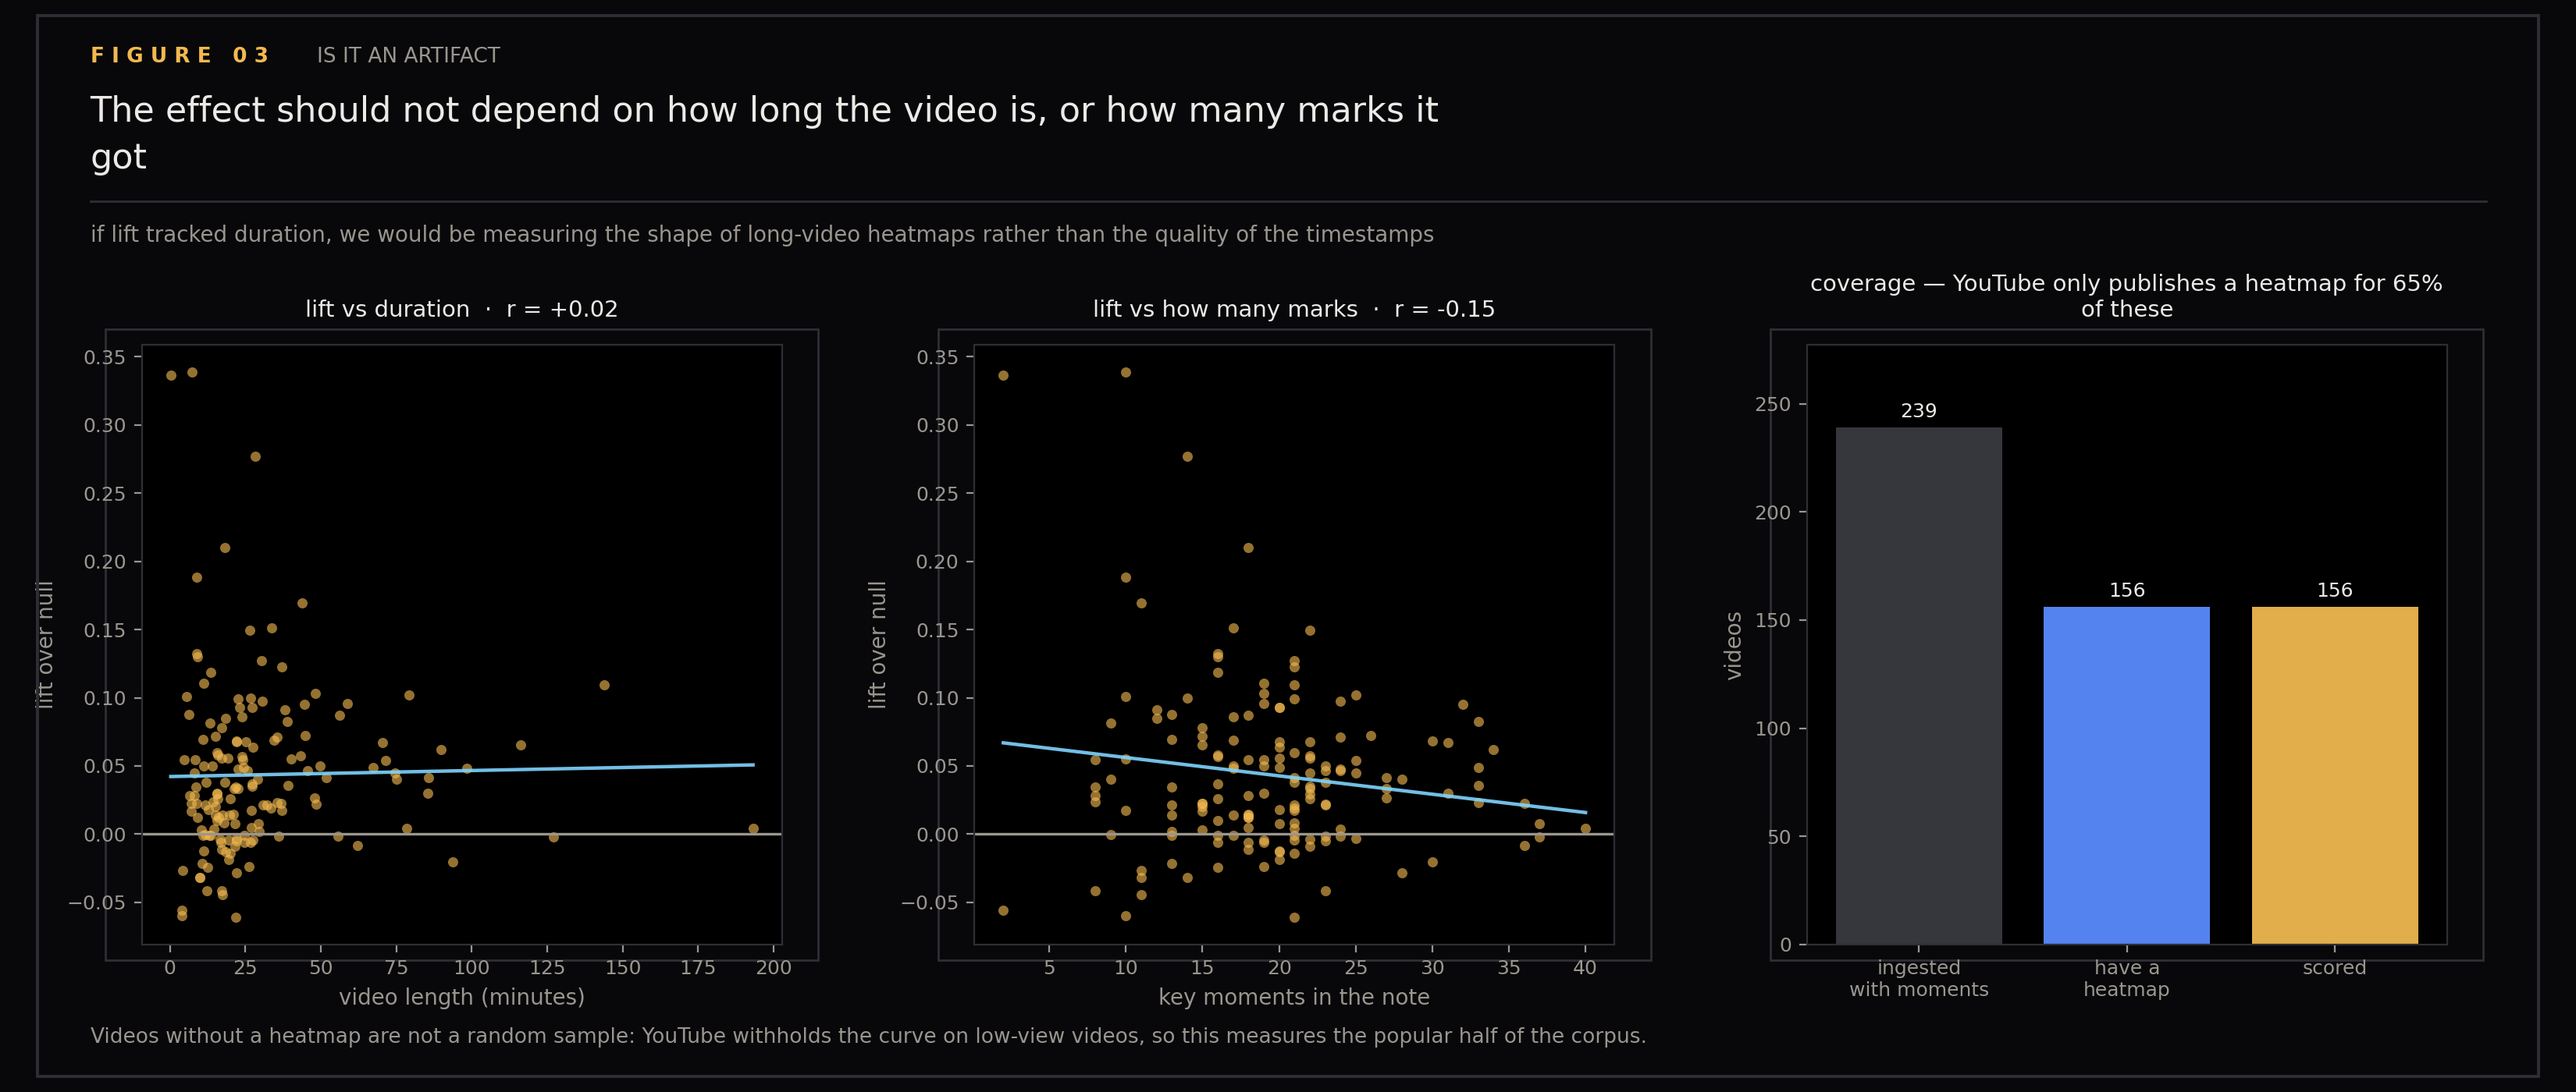
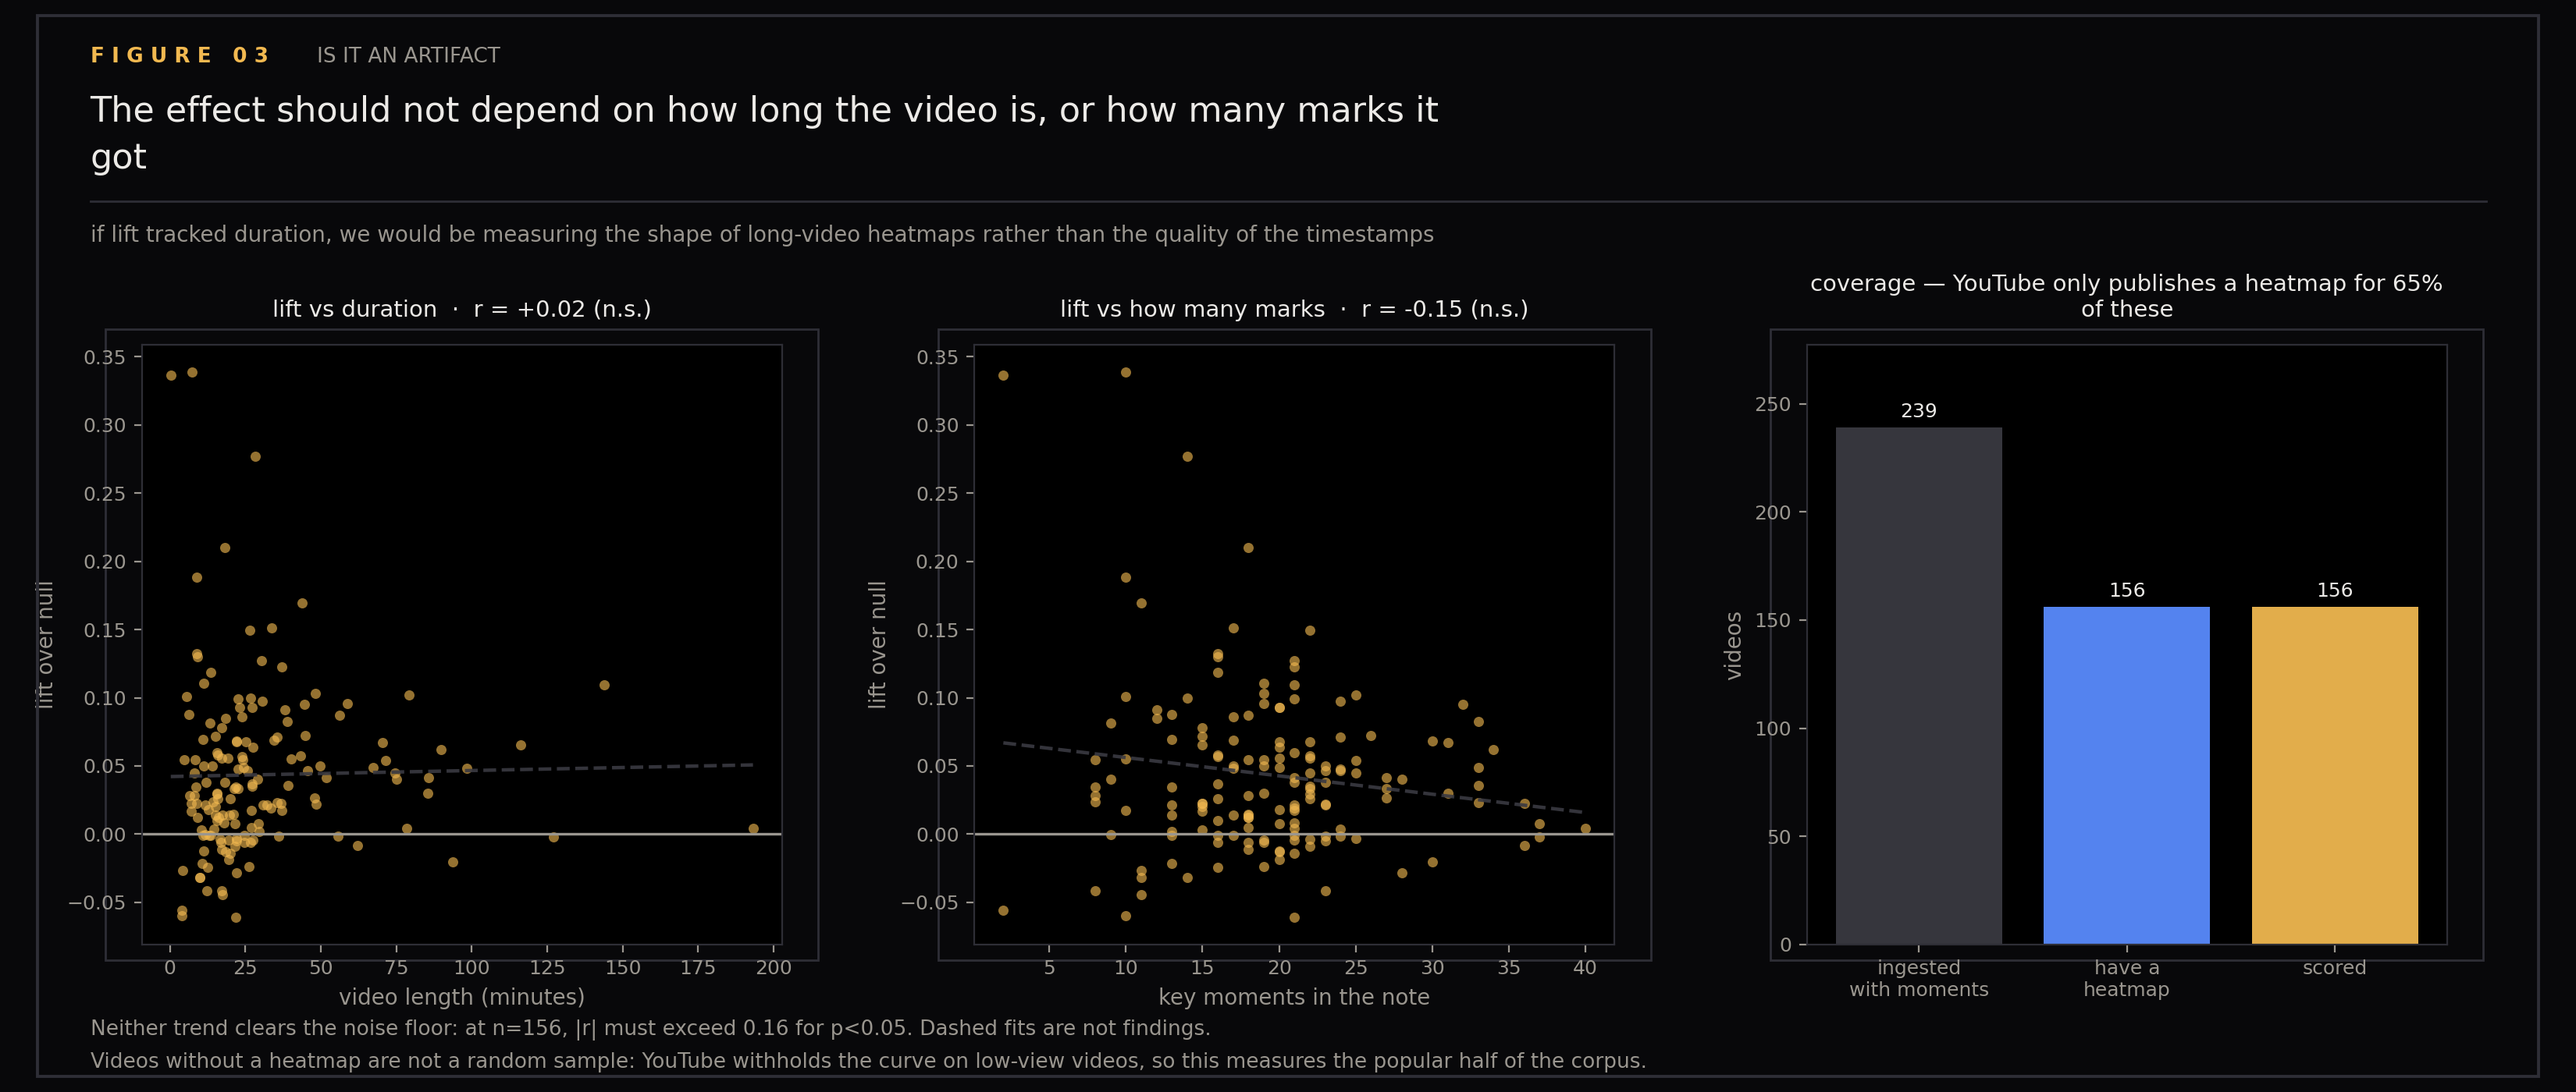
experiment(144): retract the density finding — it does not clear the noise floor
The previous commit reported "lift falls as mark count rises, r = -0.15" as the
actionable result and recommended capping key_moments on the strength of it.
Checked properly, it does not hold:

    r = -0.1496,  p = 0.060
    critical |r| at n=156 is 0.156     -> just under the bar
    variance explained by n_moments    -> 2.2%
    R^2 of n + duration + peakiness    -> 0.040

Duration quartiles are non-monotone (+0.047, +0.022, +0.054, +0.051), and the
sign flips under the obvious reparameterization: marks *per minute* correlates
+0.14, the opposite direction. If dilution were the mechanism, density is
precisely the variable that should have carried it, and it carries the reverse.

What made this worth catching is that it had everything a real finding has — a
plausible mechanism (forty marks on a 78-minute video approaches uniform
coverage, and uniform coverage cannot beat a uniform null by construction), a
worked example in figure 02, and a number that looked like the ones around it.
None of that is evidence. The arithmetic is.

Figure 03 now draws non-significant fits dashed and grey, labels them n.s., and
states the noise floor on the panel, so the picture cannot imply what the
statistics decline to support. Figure 01 gains 95% confidence intervals.

The headline is unaffected and gets stronger for being stated with intervals:

    key moments  +0.0435  95% CI [+0.0339, +0.0532]   119/156 wins, sign z=6.6
    chapters     +0.1207  95% CI [+0.1018, +0.1396]
[…]

diff --git a/scripts/plot_heatmap_key_moments.py b/scripts/plot_heatmap_key_moments.py
@@ -154,11 +154,14 @@ def fig01(res: dict) -> None:
     ax.set_xlabel("lift over that video's own null")
     ax.set_ylabel("videos")
     ax.legend(loc="upper right", fontsize=TICK_SIZE, framealpha=0.0, labelcolor=TEXT)
+    se = lift.std(ddof=1) / np.sqrt(len(lift))
+    se_ch = ch_lift.std(ddof=1) / np.sqrt(len(ch_lift))
     panel_title(
         ax,
-        f"key moments {lift.mean():+.3f} (sd {lift.std(ddof=1):.3f})  ·  "
-        f"chapters {ch_lift.mean():+.3f}",
-        width=52,
+        f"key moments {lift.mean():+.3f} [{lift.mean() - 1.96 * se:+.3f}, "
+        f"{lift.mean() + 1.96 * se:+.3f}]  ·  chapters {ch_lift.mean():+.3f} "
+        f"[{ch_lift.mean() - 1.96 * se_ch:+.3f}, {ch_lift.mean() + 1.96 * se_ch:+.3f}]",
+        width=58,
     )
 
     fig.text(
@@ -265,6 +268,11 @@ def fig03(res: dict) -> None:
         1, 3, left=0.055, right=1 - MARGIN - 0.015, top=top, bottom=0.135, wspace=0.30
     )
 
+    # |r| this size is inside the noise floor at this n; state the threshold on
+    # the panel rather than letting a drawn trend line imply a finding.
+    n = len(lift)
+    crit = 1.96 / np.sqrt(n - 2 + 1.96**2)
+
     for ax_i, (x, xlabel, title) in enumerate(
         [
             (dur, "video length (minutes)", "lift vs duration"),
@@ -276,10 +284,18 @@ def fig03(res: dict) -> None:
         ax.axhline(0, color=MUTED, linewidth=1.2)
         if len(x) > 2 and x.std() > 0:
             r = float(np.corrcoef(x, lift)[0, 1])
+            sig = abs(r) > crit
             slope, intercept = np.polyfit(x, lift, 1)
             xs = np.linspace(x.min(), x.max(), 50)
-            ax.plot(xs, slope * xs + intercept, color=CYAN, linewidth=1.6, alpha=0.9)
-            title = f"{title}  ·  r = {r:+.2f}"
+            ax.plot(
+                xs,
+                slope * xs + intercept,
+                color=CYAN if sig else DIM,
+                linewidth=1.6,
+                alpha=0.9,
+                linestyle="-" if sig else "--",
+            )
+            title = f"{title}  ·  r = {r:+.2f} ({'significant' if sig else 'n.s.'})"
         style_axes(ax)
         ax.set_xlabel(xlabel)
         ax.set_ylabel("lift over null")
@@ -306,7 +322,15 @@ def fig03(res: dict) -> None:
 
     fig.text(
         MARGIN,
-        0.045,
+        0.052,
+        f"Neither trend clears the noise floor: at n={n}, |r| must exceed {crit:.2f} for p<0.05. "
+        "Dashed fits are not findings.",
+        color=MUTED,
+        fontsize=9.5,
+    )
+    fig.text(
+        MARGIN,
+        0.022,
         "Videos without a heatmap are not a random sample: YouTube withholds the curve on "
         "low-view videos, so this measures the popular half of the corpus.",
         color=MUTED,

diff --git a/docs/assets/09-heatmap-key-moments/notes.md b/docs/assets/09-heatmap-key-moments/notes.md
@@ -21,14 +21,19 @@ becomes a measurement.
 
 ## The result
 
-| | mean replay intensity | lift over null |
-|---|---|---|
-| random offsets | 0.258 | — |
-| **generated key moments** | **0.302** | **+0.044** |
-| uploader's own chapters | 0.390 | +0.132 |
+| | mean replay intensity | lift over null | 95% CI |
+|---|---|---|---|
+| random offsets | 0.258 | — | |
+| **generated key moments** | **0.302** | **+0.044** | [+0.034, +0.053] |
+| uploader's own chapters | 0.390 | +0.121 | [+0.102, +0.140] |
 
 156 videos with a heatmap, 3,024 key moments, null = 200 uniform draws per
 video against that video's own curve (seed 20260728).
+
+Both intervals exclude zero, and they do not overlap each other — so "the
+timestamps beat chance" and "chapters beat the timestamps" are both real, not
+artifacts of a noisy mean. The win rate is 119/156 (76.3%), a sign test at
+z = 6.6.
 
 **The timestamps are better than chance, on 76% of videos, and they reach about
 a third of the lift a human uploader gets from the same curve.**
@@ -52,25 +57,48 @@ surfaced without a reference point.
 > We had been paying a model to approximate a signal we were already
 > downloading and discarding.
 
-## The actionable finding
+## The finding I nearly published, and why it did not survive
 
-Figure 03 was built to kill the result, not to support it — if lift tracked
-video duration, the experiment would be measuring the shape of long-video
-heatmaps rather than the quality of the timestamps.
+Figure 03 was built to kill the result, not support it — if lift tracked video
+duration, the experiment would be measuring the shape of long-video heatmaps
+rather than timestamp quality. It survived that (**r = +0.02**, flat).
 
-It survived that check (**r = +0.02** against duration, flat) and turned up
-something else on the way:
+On the way it turned up **lift falling as mark count rises, r = −0.15**, which
+came with a ready-made story: forty marks on a 78-minute video is a mark every
+two minutes, approaching uniform coverage, and uniform coverage cannot beat a
+uniform null by construction. Figure 02 seemed to show it — the best video has
+10 moments, the worst has 21.
 
-**lift falls as the number of marks rises — r = −0.15.**
+**It does not hold.** Checked properly:
 
-Which is obvious once seen. Forty marks on a 78-minute video is a mark every two
-minutes, approaching uniform coverage, and uniform coverage cannot beat a
-uniform null by construction. Figure 02 shows it directly: the best video has 10
-moments and +0.339, the worst has 21 and −0.061.
+- r = −0.1496, **p = 0.060**. At n = 156, |r| must exceed **0.156** for p < 0.05.
+  It lands just under the bar.
+- n_moments alone explains **2.2%** of the variance in lift.
+- A regression on n_moments + duration + heatmap peakiness reaches **R² = 0.040**.
+  Four percent. Essentially nothing is being explained.
+- Duration quartiles are non-monotone: +0.047, +0.022, +0.054, +0.051.
+- And the sign flips under the obvious reparameterization — marks **per minute**
+  correlates **+0.14**, the opposite direction. If dilution were the mechanism,
+  density is exactly the variable that should have carried it.
 
-The enrichment prompt says "up to 8 timestamped moments." Notes in the corpus
-carry 40. Whatever is or isn't enforcing that cap, the data says the cap was the
-right instinct — **fewer, more selective marks should score better.**
+The dilution story was plausible, had a mechanism, and had a worked example. It
+was still noise. Figure 03 now draws both fits dashed and states the noise floor
+on the panel, so the picture cannot imply a finding the arithmetic does not
+support.
+
+## The real find in the same territory
+
+Separately, and not statistical: `CLAUDE.md` claimed enrichment emits "up to 8
+timestamped moments." The live prompt in `ytk/enrich.py` says the opposite —
+*"Include as many as the content warrants; scale to length"* — with no cap
+anywhere. Notes in the corpus carry 40.
+
+That is documentation drift, worth fixing on its own terms. It is **not**
+evidence that a cap would help; this experiment cannot distinguish "fewer marks"
+from "better-chosen marks," and random subsampling could not either, since the
+expected mean of a random subset equals the mean of the full set. Testing a cap
+means generating new enrichments under a capped prompt and re-scoring — a real
+A/B, not a reanalysis of this data.
 
 ## The caveat that belongs in the post
 
@@ -88,11 +116,12 @@ videos is untested and unknowable by this method.
    rendered in the terminal, and never written to the note — they only survive
    when an uploader happens to duplicate their timestamps into the description.
    They are the strongest signal measured here.
-3. **Cap key moments harder.** The density correlation says selectivity is what
-   is being lost.
+3. **Fix the stale cap in the docs**, and decide deliberately whether the prompt
+   should have one. The data does not settle it — see above.
 4. A heatmap in the note also makes this experiment rerunnable per-video, which
    turns key-moment quality into something the enrichment eval can regress on
-   rather than a one-off study.
+   rather than a one-off study. That is also what would make a capped-prompt A/B
+   cheap enough to actually run.
 
 ## Figures
 

diff --git a/CLAUDE.md b/CLAUDE.md
@@ -194,7 +194,10 @@ Returns a structured `Enrichment` object:
 - `key_concepts` — tools, commands, APIs, techniques with one-sentence explanations of how each was used in this specific video (max 8)
 - `insights` — 2–3 specific things worth remembering: gotchas, non-obvious tradeoffs, surprising techniques
 - `interest_tags` — lowercase hyphenated topic labels
-- `key_moments` — up to 8 timestamped moments specific enough to find from memory
+- `key_moments` — timestamped moments specific enough to find from memory. **No cap**: the
+  prompt says "include as many as the content warrants; scale to length", and notes in the
+  corpus carry up to 40. Whether a cap would help is untested — see
+  `docs/assets/09-heatmap-key-moments/notes.md`
 
 ## arXiv ingestion convention (verified 2026-07-27)
 
